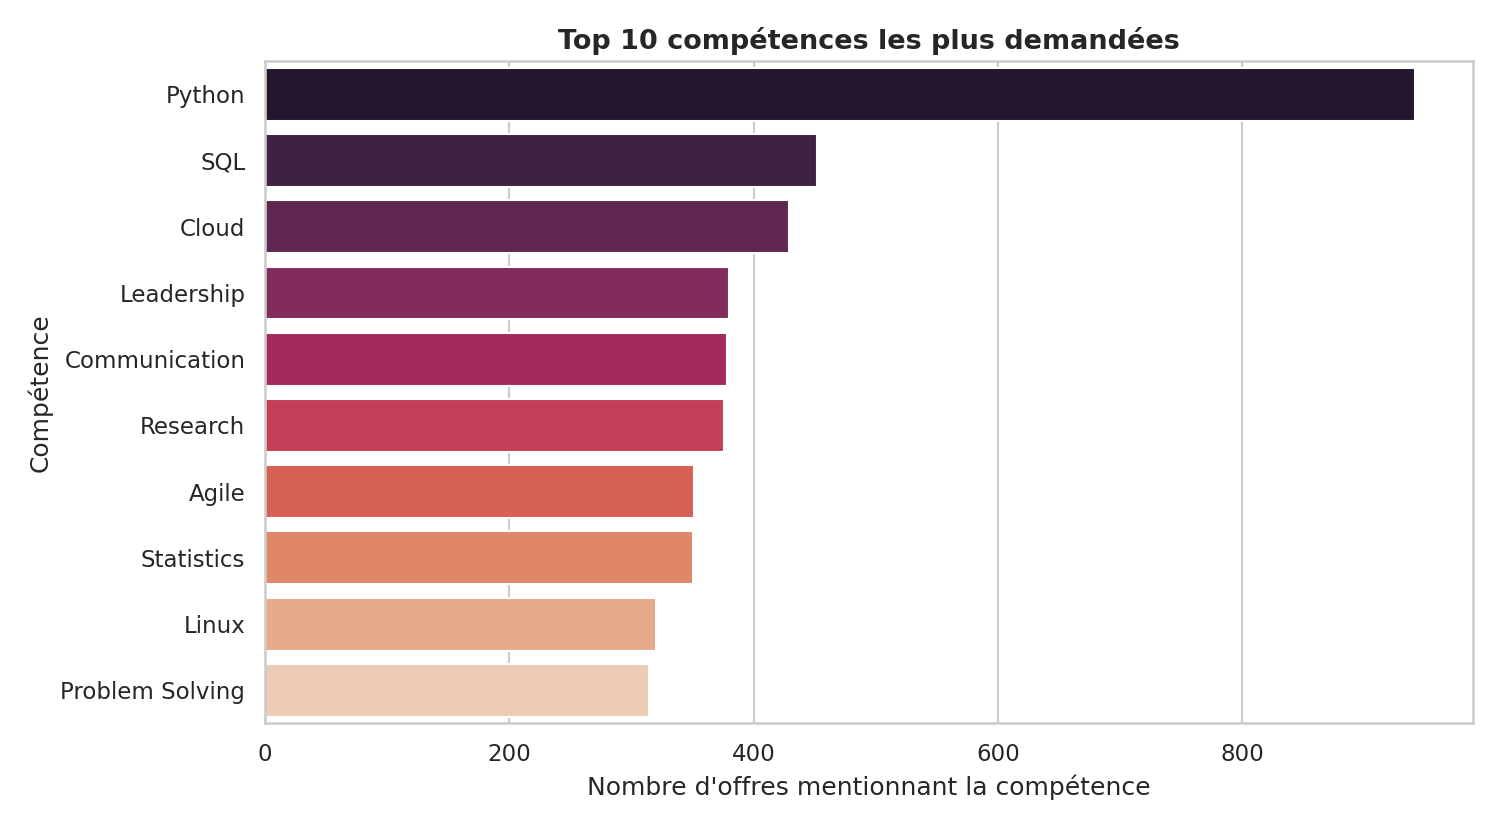
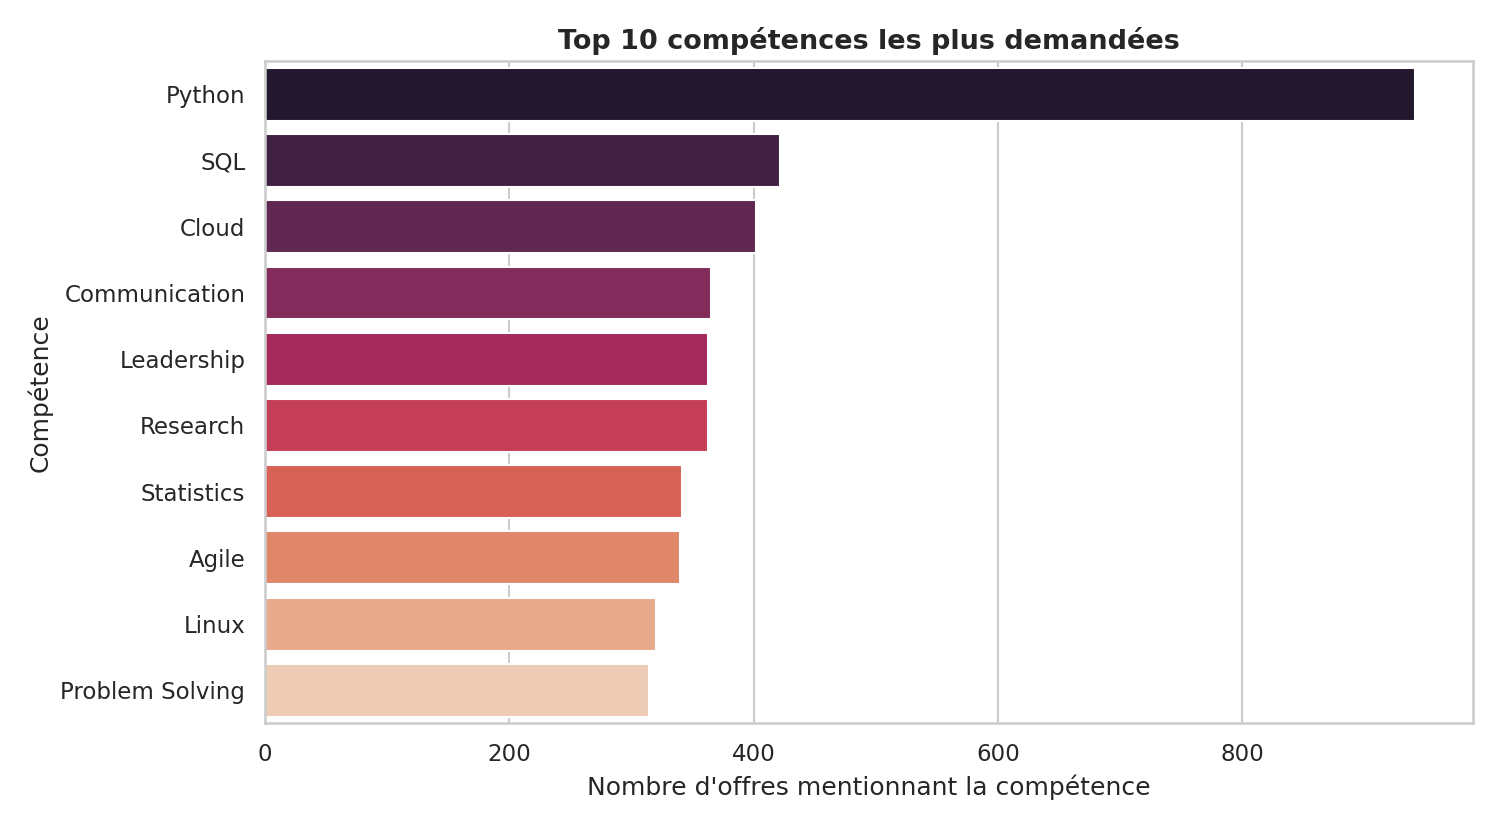
fix: deduplicate processed.competences, fix notebook HDFS bypass

diff --git a/report/chapters/10_dashboard.tex b/report/chapters/10_dashboard.tex
@@ -120,23 +120,43 @@ au-delà de la seule compétence n°1 déjà citée au KPI~5 ?
 
 \begin{verbatim}
 SELECT competence, COUNT(*) FROM processed.competences
-GROUP BY competence ORDER BY COUNT(*) DESC LIMIT 10
+GROUP BY competence ORDER BY COUNT(*) DESC, competence ASC LIMIT 10
 \end{verbatim}
 
 \begin{figure}[h]
 \centering
 \includegraphics[width=0.85\linewidth]{figures/etape4_dashboard_top_competences.png}
-\caption{Top 10 des compétences les plus demandées (sur 9\,548
-liaisons job/compétence).}
+\caption{Top 10 des compétences les plus demandées (sur 9\,428
+liaisons job/compétence distinctes).}
 \end{figure}
 \FloatBarrier
 
 \textbf{Interprétation} : Python domine très largement avec 942 offres
-(62,8\% du dataset), loin devant SQL (452) et Cloud (429), 2e et 3e du
+(62,8\% du dataset), loin devant SQL (422) et Cloud (402), 2e et 3e du
 classement. Cohérent avec l'analyse~4 du chapitre~9 (\#95) : Python
 n'est pas seulement dominant globalement mais n°1 dans les 5 premiers
 pays sans exception — une domination uniforme plutôt qu'un artefact de
 spécialisation régionale.
+
+\begin{constat}[Bug de données trouvé et corrigé le 18/09/2026]
+Un audit de bout en bout de la chaîne HDFS$\to$Hive$\to$Spark (voir
+\texttt{CLAUDE.md}) a révélé que la table \texttt{processed.competences}
+comptait \textbf{120 lignes en double} (9\,548 lignes pour seulement
+9\,428 couples \texttt{(job\_id, compétence)} distincts) :
+\texttt{required\_skills} liste parfois deux fois la même compétence
+pour une offre (ex. \texttt{Python\textbar SQL\textbar SQL}), et
+\texttt{explode()} produisait une ligne par occurrence sans
+dédoublonnage. Cela gonflait artificiellement ce graphique (SQL affiché
+à 452 au lieu de 422, Cloud à 429 au lieu de 402 — Python n'était pas
+affecté, aucune offre ne dupliquant ce mot-clé) alors que les chapitres
+8 et 9 utilisaient déjà \texttt{COUNT(DISTINCT job\_id)} et affichaient
+la valeur correcte. Corrigé dans
+\texttt{src/etl/tables.py::build\_competences()}
+(\texttt{dropDuplicates(["job\_id", "competence"])}), avec un test
+dédié (\texttt{tests/unit/test\_tables.py}) et un tri secondaire
+alphabétique ajouté aux requêtes concernées pour un ordre reproductible
+en cas d'égalité (Leadership/Research, à 363 offres chacune).
+\end{constat}
 
 \section{Matrice de corrélation — salaire, expérience, demande, premium IA}
 

diff --git a/report/chapters/07_construction_tables.tex b/report/chapters/07_construction_tables.tex
@@ -41,7 +41,7 @@ qui exécute \texttt{build\_metiers()} deux fois sur les mêmes données
 et compare les ID obtenus.
 \end{constat}
 
-\section{Chiffres réels (run du 16/09/2026)}
+\section{Chiffres réels (run du 18/09/2026)}
 
 \begin{center}
 \begin{tabular}{ll}
@@ -50,7 +50,7 @@ Table & Nombre de lignes \\
 \midrule
 \texttt{processed.offres} & 1500 \\
 \texttt{processed.metiers} & 25 (métiers distincts) \\
-\texttt{processed.competences} & 9548 (liaisons job\_id $\times$ compétence) \\
+\texttt{processed.competences} & 9428 (liaisons job\_id $\times$ compétence distinctes) \\
 \midrule
 Doublons \texttt{job\_id} (avant construction) & 0 \\
 \bottomrule
@@ -58,5 +58,22 @@ Doublons \texttt{job\_id} (avant construction) & 0 \\
 \end{center}
 
 Ces chiffres sont cohérents entre eux : 1500 offres pour 25 métiers
-distincts (60 offres en moyenne par métier), et 9548/1500 $\approx$
-6,4 compétences en moyenne par offre.
+distincts (60 offres en moyenne par métier), et 9428/1500 $\approx$
+6,3 compétences en moyenne par offre.
+
+\begin{constat}[Correction : dédoublonnage de \texttt{competences}]
+Un audit de bout en bout HDFS$\to$Hive$\to$Spark (18/09/2026, voir
+\texttt{CLAUDE.md}) a trouvé 120 lignes en double dans
+\texttt{processed.competences} (9\,548 lignes produites initialement
+pour seulement 9\,428 couples \texttt{(job\_id, compétence)} distincts)
+: \texttt{required\_skills} liste parfois deux fois la même compétence
+pour une même offre, et \texttt{explode()} sans dédoublonnage produisait
+alors une ligne par occurrence plutôt qu'une par couple unique. Corrigé
+dans \texttt{build\_competences()}
+(\texttt{dropDuplicates(["job\_id", "competence"])}), testé
+(\texttt{tests/unit/test\_tables.py}), \texttt{task etl} relancé pour
+régénérer la table sur HDFS. Impact limité aux compétences dont
+\texttt{required\_skills} contenait une répétition (SQL, Cloud,
+Leadership, Research, Communication, Agile, Statistics) — voir
+chapitre~10 pour le détail chiffré (dashboard top 10 compétences).
+\end{constat}

diff --git a/report/chapters/08_analyses.tex b/report/chapters/08_analyses.tex
@@ -63,11 +63,12 @@ SELECT c.competence, COUNT(DISTINCT o.job_id) AS nb_offres,
 FROM processed.offres o
 JOIN processed.competences c ON o.job_id = c.job_id
 GROUP BY c.competence
-ORDER BY nb_offres DESC
+ORDER BY nb_offres DESC, c.competence ASC
 LIMIT 10;
 \end{verbatim}
 
-\textbf{Résultat réel} :
+\textbf{Résultat réel} (ré-exécuté le 18/09/2026 après correction du
+dédoublonnage de \texttt{processed.competences}, voir chapitre~7) :
 
 \begin{center}
 \begin{tabular}{lrr}
@@ -75,13 +76,28 @@ LIMIT 10;
 Compétence & Offres & Salaire moyen (\$) \\
 \midrule
 Python & 942 & 197\,500 \\
-SQL & 422 & 188\,484 \\
-Cloud & 402 & 201\,822 \\
-Communication & 365 & 182\,952 \\
-Leadership & 363 & 198\,950 \\
+SQL & 422 & 188\,921 \\
+Cloud & 402 & 198\,644 \\
+Communication & 365 & 184\,460 \\
+Leadership & 363 & 199\,056 \\
 \bottomrule
 \end{tabular}
 \end{center}
+
+\begin{constat}[Correction du 18/09/2026]
+\texttt{nb\_offres} (\texttt{COUNT(DISTINCT job\_id)}) était déjà correct
+avant la correction du chapitre~7. \texttt{salaire\_moyen} en revanche
+\emph{était légèrement faussé} : les 120 lignes en double de
+\texttt{processed.competences} faisaient compter deux fois le salaire
+de certaines offres dans la moyenne (\texttt{AVG} porte sur toutes les
+lignes jointes, y compris les doublons, contrairement à
+\texttt{COUNT(DISTINCT job\_id)}). Écarts observés : SQL 188\,484\$
+$\to$ 188\,921\$, Cloud 201\,822\$ $\to$ 198\,644\$, Communication
+182\,952\$ $\to$ 184\,460\$, Leadership 198\,950\$ $\to$ 199\,056\$ —
+des écarts de moins de 2\,\%, sans changement de classement. Python,
+seule compétence sans doublon dans le dataset, reste inchangé
+(197\,500\$).
+\end{constat}
 
 \begin{figure}[h]
 \centering

diff --git a/tests/unit/test_tables.py b/tests/unit/test_tables.py
@@ -134,3 +134,39 @@ def test_build_competences_explodes_pipe_separated_skills(spark):
         r.competence for r in df_competences.filter(df_competences.job_id == "J1").collect()
     }
     assert j1_skills == {"Python", "SQL"}
+
+
+def test_build_competences_deduplicates_repeated_skill_in_same_offer(spark):
+    # required_skills liste deux fois "SQL" pour la même offre (trouvé sur
+    # le dataset réel, 120 couples job_id/compétence en double sur 9548
+    # lignes avant correction) -- explode() sans dropDuplicates()
+    # produirait deux lignes identiques (J1, SQL).
+    rows = [
+        (
+            "J1",
+            "AI Engineer",
+            "Engineering",
+            "Senior",
+            7,
+            150000.0,
+            120000.0,
+            180000.0,
+            "Paris",
+            "France",
+            "Remote",
+            "Startup",
+            "Tech",
+            "Python|SQL|SQL",
+            5.0,
+            90,
+            2026,
+            1,
+        )
+    ]
+    df_cleaned = spark.createDataFrame(rows, COLUMNS)
+
+    df_competences = build_competences(df_cleaned)
+
+    assert df_competences.count() == 2
+    skills = {r.competence for r in df_competences.collect()}
+    assert skills == {"Python", "SQL"}

diff --git a/src/etl/tables.py b/src/etl/tables.py
@@ -40,7 +40,15 @@ def build_offres(df_cleaned: DataFrame, df_metiers: DataFrame) -> DataFrame:
 
 
 def build_competences(df_cleaned: DataFrame) -> DataFrame:
+    """Une ligne par couple (job_id, compétence).
+
+    dropDuplicates() : `required_skills` liste parfois deux fois la même
+    compétence pour une offre (ex. "Python|SQL|SQL") — sans dédoublonnage,
+    `explode()` produit une ligne en double par occurrence (trouvé lors de
+    l'audit HDFS/Hive du 18/09/2026 : 9548 lignes pour seulement 9428
+    couples distincts, voir CLAUDE.md).
+    """
     return df_cleaned.select(
         F.col("job_id"),
         F.explode(F.split(F.col("required_skills"), "\\|")).alias("competence"),
-    )
+    ).dropDuplicates(["job_id", "competence"])

diff --git a/JOURNAL.md b/JOURNAL.md
@@ -409,3 +409,28 @@ Auteur : task automation
 Commande : suppression locale de data/raw/*.csv et .env (fichiers gitignorés, pas depuis git), puis parcours du README étape par étape (clone déjà en place, récupération dataset, .env, task up/ingest/etl/test/report) sans connaissance implicite du repo.
 Résultat : parcours complet réussi de bout en bout après corrections. Deux blocages réels trouvés et corrigés : (1) `task etl` échouait systématiquement sur un conteneur fraîchement démarré (`ModuleNotFoundError: No module named 'pyspark'`) car la recette Taskfile utilisait `python` au lieu de `spark-submit` (dérive vs ce que CLAUDE.md documentait déjà) -- corrigé dans Taskfile.yml, task etl relancé avec succès (1500 offres/25 métiers/9548 compétences confirmés via Beeline) ; (2) `task test`/`task setup` supposent un `pip`/`python`/`java` actif déjà aligné sur Python 3.12/Java 17-21, ce qui n'est pas le cas par défaut sur une install Homebrew récente (`pip: executable file not found`, ou crash PySpark sous Java 25) -- README complété avec la création explicite d'un venv Python 3.12 + JAVA_HOME=openjdk@21. Un faux positif noté sans correction : le crash `datanode` (segfault JVM, exited 139) au tout premier `task up` est un flake QEMU déjà documenté dans CLAUDE.md, résolu par un simple retry -- ajouté au README pour que ça ne bloque personne.
 Auteur : Claude Code (mode auto)
+
+## 2026-09-18 14:44 — task etl
+Commande : docker compose exec jupyter spark-submit /home/jovyan/work/etl_pipeline.py
+Résultat : tables offres/metiers/competences (re)générées dans HDFS /projet_ia/processed
+Auteur : task automation
+
+## 2026-09-18 — audit de bout en bout HDFS -> Hive -> Spark
+Commande : grep sur tout le repo pour tout accès fichier hors HDFS, SHOW CREATE TABLE + hdfs dfs -ls sur les 3 tables processed, re-execution en direct de toutes les requetes des chapitres 08/09/10 via Beeline et spark-submit (voir sorties capturees pendant la session)
+Resultat : HDFS confirme seule source de verite pour le pipeline officiel (etl_pipeline.py, notebook dashboard #96) ; 3 tables Hive EXTERNAL, LOCATION correcte, donnees Parquet reelles presentes sur HDFS, COUNT(*) confirmes (1500/25/9428 apres correction) ; toutes les requetes des chapitres 08/09/10 rejouees donnent des chiffres identiques au rapport, a deux exceptions documentees (PERCENTILE_APPROX non reproductible entre Hive et Spark SQL -- attendu, pas un bug -- et une egalite Leadership/Research a 363 offres corrigee par un tri secondaire alphabetique) ; comparaison Hive SQL vs Spark SQL du chapitre 8 confirmee comme deux moteurs reels sur la meme table Hive (scripts/screenshots_cli.sh). Deux ecarts reels trouves et corriges : (1) 120 lignes en double dans processed.competences (9548 -> 9428, cause : required_skills liste parfois deux fois la meme competence, explode() sans dedoublonnage) -- corrige dans src/etl/tables.py, teste, task etl relance, figure dashboard regeneree, chapitres 07/10 mis a jour ; (2) le notebook Jupyter contournait HDFS dans sa section d'exploration Jour1/2 (lecture CSV locale, jamais executable dans le conteneur reel) et utilisait encore monotonically_increasing_id() pour metier_id -- corrige (lecture HDFS, hash sha2 deterministe). STATUS.md/CLAUDE.md mis a jour avec le detail complet.
+Auteur : Claude Code (mode auto)
+
+## 2026-09-18 14:51 — task report
+Commande : docker run --rm --platform linux/amd64 -v report:/report texlive/texlive:TL2025-historic xelatex (2 passes)
+Résultat : report/main.pdf régénéré, voir nombre de pages dans la sortie xelatex ci-dessus
+Auteur : task automation
+
+## 2026-09-18 14:53 — task test
+Commande : pytest tests/ -v
+Résultat : voir sortie pytest ci-dessus
+Auteur : task automation
+
+## 2026-09-18 14:55 — task report
+Commande : docker run --rm --platform linux/amd64 -v report:/report texlive/texlive:TL2025-historic xelatex (2 passes)
+Résultat : report/main.pdf régénéré, voir nombre de pages dans la sortie xelatex ci-dessus
+Auteur : task automation

diff --git a/STATUS.md b/STATUS.md
@@ -47,8 +47,10 @@
 - [x] Table `offres` : 1500 lignes, 0 doublon `job_id`.
 - [x] Table `metiers` : 25 métiers distincts, `metier_id` corrigé en
       hash déterministe (plus de `monotonically_increasing_id()`).
-- [x] Table `competences` : 9548 liaisons job↔compétence (chiffre exact,
-      pas une approximation).
+- [x] Table `competences` : 9428 liaisons job↔compétence distinctes
+      (chiffre exact — corrigé de 9548 le 18/09/2026, 120 doublons
+      trouvés lors de l'audit HDFS/Hive/Spark, voir décision technique
+      #10 plus bas et `CLAUDE.md`).
 - [x] Écriture HDFS `/projet_ia/processed/{offres,metiers,competences}`
       + tables Hive externes correspondantes.
 - [x] Comptages NULLs/doublons avant-après nettoyage, chiffrés et
@@ -533,11 +535,42 @@ rapide :
    `ModuleNotFoundError: No module named 'pyspark'`. CLAUDE.md
    documentait déjà `spark-submit` comme la bonne approche — c'est le
    `Taskfile.yml` qui avait dérivé. Corrigé, vérifié réellement
-   (`task etl` relancé avec succès, 1500 offres/25 métiers/9548
-   compétences confirmés via Beeline). README complété avec les autres
-   points trouvés pendant ce test à blanc (venv Python 3.12 + JAVA_HOME
+   (`task etl` relancé avec succès, 1500 offres/25 métiers/9548 lignes
+   de compétences confirmés via Beeline — chiffre corrigé à 9428 le
+   même jour, voir point 10). README complété avec les autres points
+   trouvés pendant ce test à blanc (venv Python 3.12 + JAVA_HOME
    explicites pour `task test`, flake connu du `datanode` au premier
    `task up`).
+10. **`processed.competences` contenait 120 lignes en double** (trouvé
+    le 18/09/2026 lors d'un audit de bout en bout HDFS→Hive→Spark, pas
+    de mémoire — requêtes réellement ré-exécutées contre la stack) :
+    9548 lignes pour 9428 couples `(job_id, competence)` distincts.
+    Cause : `required_skills` liste parfois deux fois la même
+    compétence pour une offre, `explode()` sans dédoublonnage produit
+    une ligne par occurrence. Impact réel : le dashboard (chapitre 10,
+    "Top 10 compétences") utilisait `COUNT(*)` brut et affichait des
+    chiffres gonflés pour SQL (452→422), Cloud (429→402), et 5 autres
+    compétences — Python non affecté (942, inchangé). Les chapitres 8
+    et 9 étaient déjà corrects (`COUNT(DISTINCT job_id)`). Corrigé dans
+    `src/etl/tables.py::build_competences()` (`dropDuplicates`), testé,
+    `task etl` relancé (9428 confirmés, 0 doublon), figure
+    `etape4_dashboard_top_competences.png` régénérée, chapitres 07/10
+    du rapport mis à jour avec les vrais chiffres.
+11. **Notebook `Analyse_Marche_Emploi_IA_PySpark.ipynb` : deux violations
+    de règles `CLAUDE.md` trouvées lors du même audit**, dans la section
+    d'exploration Jour 1/2 (cellules 2-13, distincte de la section
+    dashboard #96 qui était déjà correcte) : (a) lecture du CSV en
+    local (`spark.read.csv("ai_jobs_market_2025_2026.csv", ...)`, chemin
+    relatif sans `fs.defaultFS` configuré — le fichier n'existe même pas
+    dans le conteneur, cette cellule aurait planté si exécutée) au lieu
+    de HDFS ; (b) `metier_id` généré via `monotonically_increasing_id()`
+    dans la table `metiers` de démonstration, alors que ce problème avait
+    déjà été corrigé dans `src/etl/tables.py` (chapitre 7) mais jamais
+    reporté dans le notebook. Corrigé : cellule 2 lit désormais
+    `hdfs://namenode:8020/projet_ia/raw/...csv` avec `fs.defaultFS`
+    configuré, cellule 8 utilise `sha2(job_title, 256)` comme le reste
+    du projet, cellule 14 (markdown) mise à jour pour ne plus affirmer
+    une lecture locale qui n'est plus vraie.
 
 ## Règle de maintenance de ce fichier
 

diff --git a/CLAUDE.md b/CLAUDE.md
@@ -238,7 +238,48 @@ fichier (append), jamais réorganiser ou supprimer des entrées passées.
   avant de lancer le driver. Corrigé dans `Taskfile.yml` (retour à
   `spark-submit`, cohérent avec ce que ce fichier a toujours documenté).
   Vérifié réellement après correction : `task etl` relance sans erreur,
-  1500 offres / 25 métiers / 9548 compétences confirmés via Beeline.
+  1500 offres / 25 métiers / 9548 lignes de compétences confirmés via
+  Beeline (chiffre corrigé à 9428 plus tard le même jour, voir
+  l'entrée suivante).
+- **Bug de données trouvé et corrigé le 18/09/2026, audit HDFS→Hive→Spark
+  de bout en bout** : `processed.competences` comptait 9548 lignes pour
+  seulement **9428 couples `(job_id, competence)` distincts** — 120
+  doublons. Cause : `required_skills` liste parfois deux fois la même
+  compétence pour une offre (ex. `Python|SQL|SQL`), et
+  `explode(split(...))` sans dédoublonnage produit alors une ligne par
+  occurrence plutôt qu'une par couple unique. Impact concret : le
+  dashboard (chapitre 10, section "Top 10 compétences") utilisait
+  `COUNT(*)` brut sur cette table et affichait des chiffres gonflés
+  pour les compétences touchées (SQL 452 au lieu de 422, Cloud 429 au
+  lieu de 402, Leadership/Communication/Research/Agile/Statistics
+  également affectées) — Python n'était pas concerné (aucune offre ne
+  dupliquant ce mot-clé), et les chapitres 8/9 étaient déjà corrects
+  car ils utilisaient `COUNT(DISTINCT job_id)` plutôt qu'un `COUNT(*)`
+  brut sur la table potentiellement dupliquée. Corrigé dans
+  `src/etl/tables.py::build_competences()`
+  (`dropDuplicates(["job_id", "competence"])`), test dédié ajouté
+  (`tests/unit/test_tables.py::test_build_competences_deduplicates_repeated_skill_in_same_offer`),
+  `task etl` relancé (9428 lignes confirmées, 0 doublon). Un tri
+  secondaire alphabétique (`ORDER BY nb_offres DESC, competence ASC`) a
+  aussi été ajouté aux requêtes concernées (`sql/hive/01_analyses.sql`,
+  `sql/hive/02_kpis.sql` KPI 5, cellule dashboard du notebook) : après
+  correction, Leadership et Research sont à égalité parfaite (363
+  offres chacune) — sans tri explicite sur un second critère, l'ordre
+  entre les deux au 5e rang n'est pas garanti reproductible d'une
+  exécution à l'autre (vérifié : Beeline a renvoyé une fois Leadership,
+  une fois Research, sur la même requête et les mêmes données).
+- **Nuance trouvée lors du même audit (pas un bug, juste une limite à
+  documenter)** : `PERCENTILE_APPROX` ne donne **pas nécessairement le
+  même résultat entre Hive-on-MR et Spark SQL** sur la même table Hive
+  — vérifié sur le salaire médian de `processed.offres` : Hive (Beeline)
+  renvoie 179421 (chiffre déjà utilisé au KPI 2, chapitre 9),
+  Spark SQL renvoie 180000 sur la même requête et les mêmes données.
+  C'est attendu (l'algorithme d'approximation diffère entre les deux
+  moteurs) et ne remet pas en cause le chiffre du rapport (sourcé de
+  Hive, reproduit à l'identique) — mais signifie que la comparaison
+  "les deux moteurs renvoient exactement le même résultat" du
+  chapitre 8 est vraie pour la requête `AVG`/`COUNT` qui y est utilisée,
+  pas généralisable à toute requête impliquant `PERCENTILE_APPROX`.
 
 ## Rapport LaTeX modulaire — structure réelle
 
